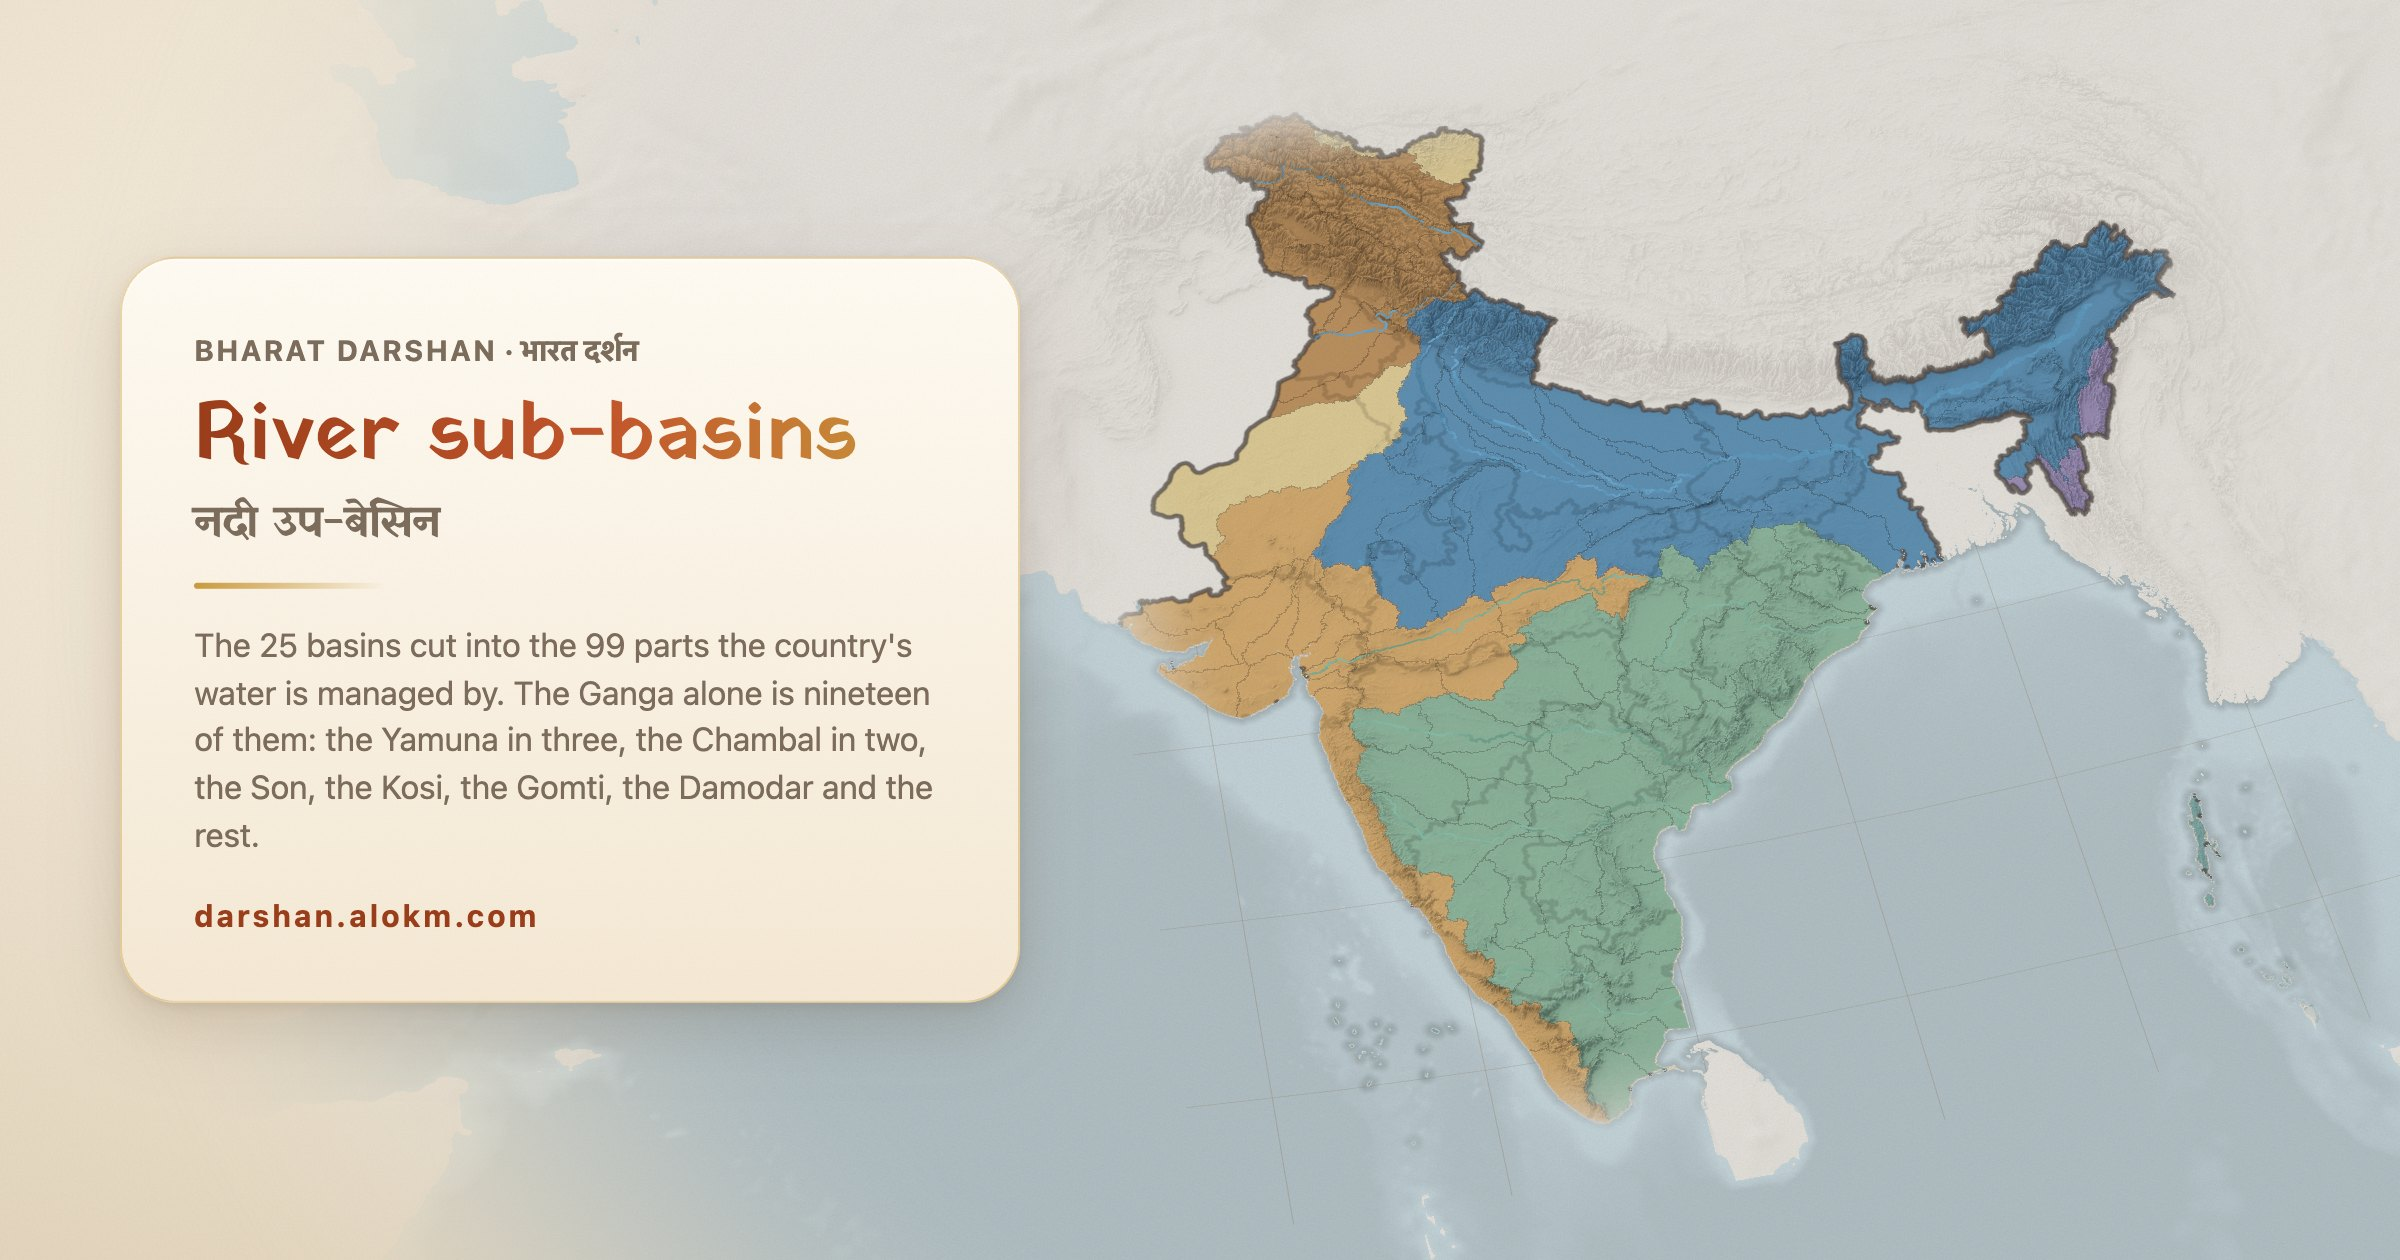
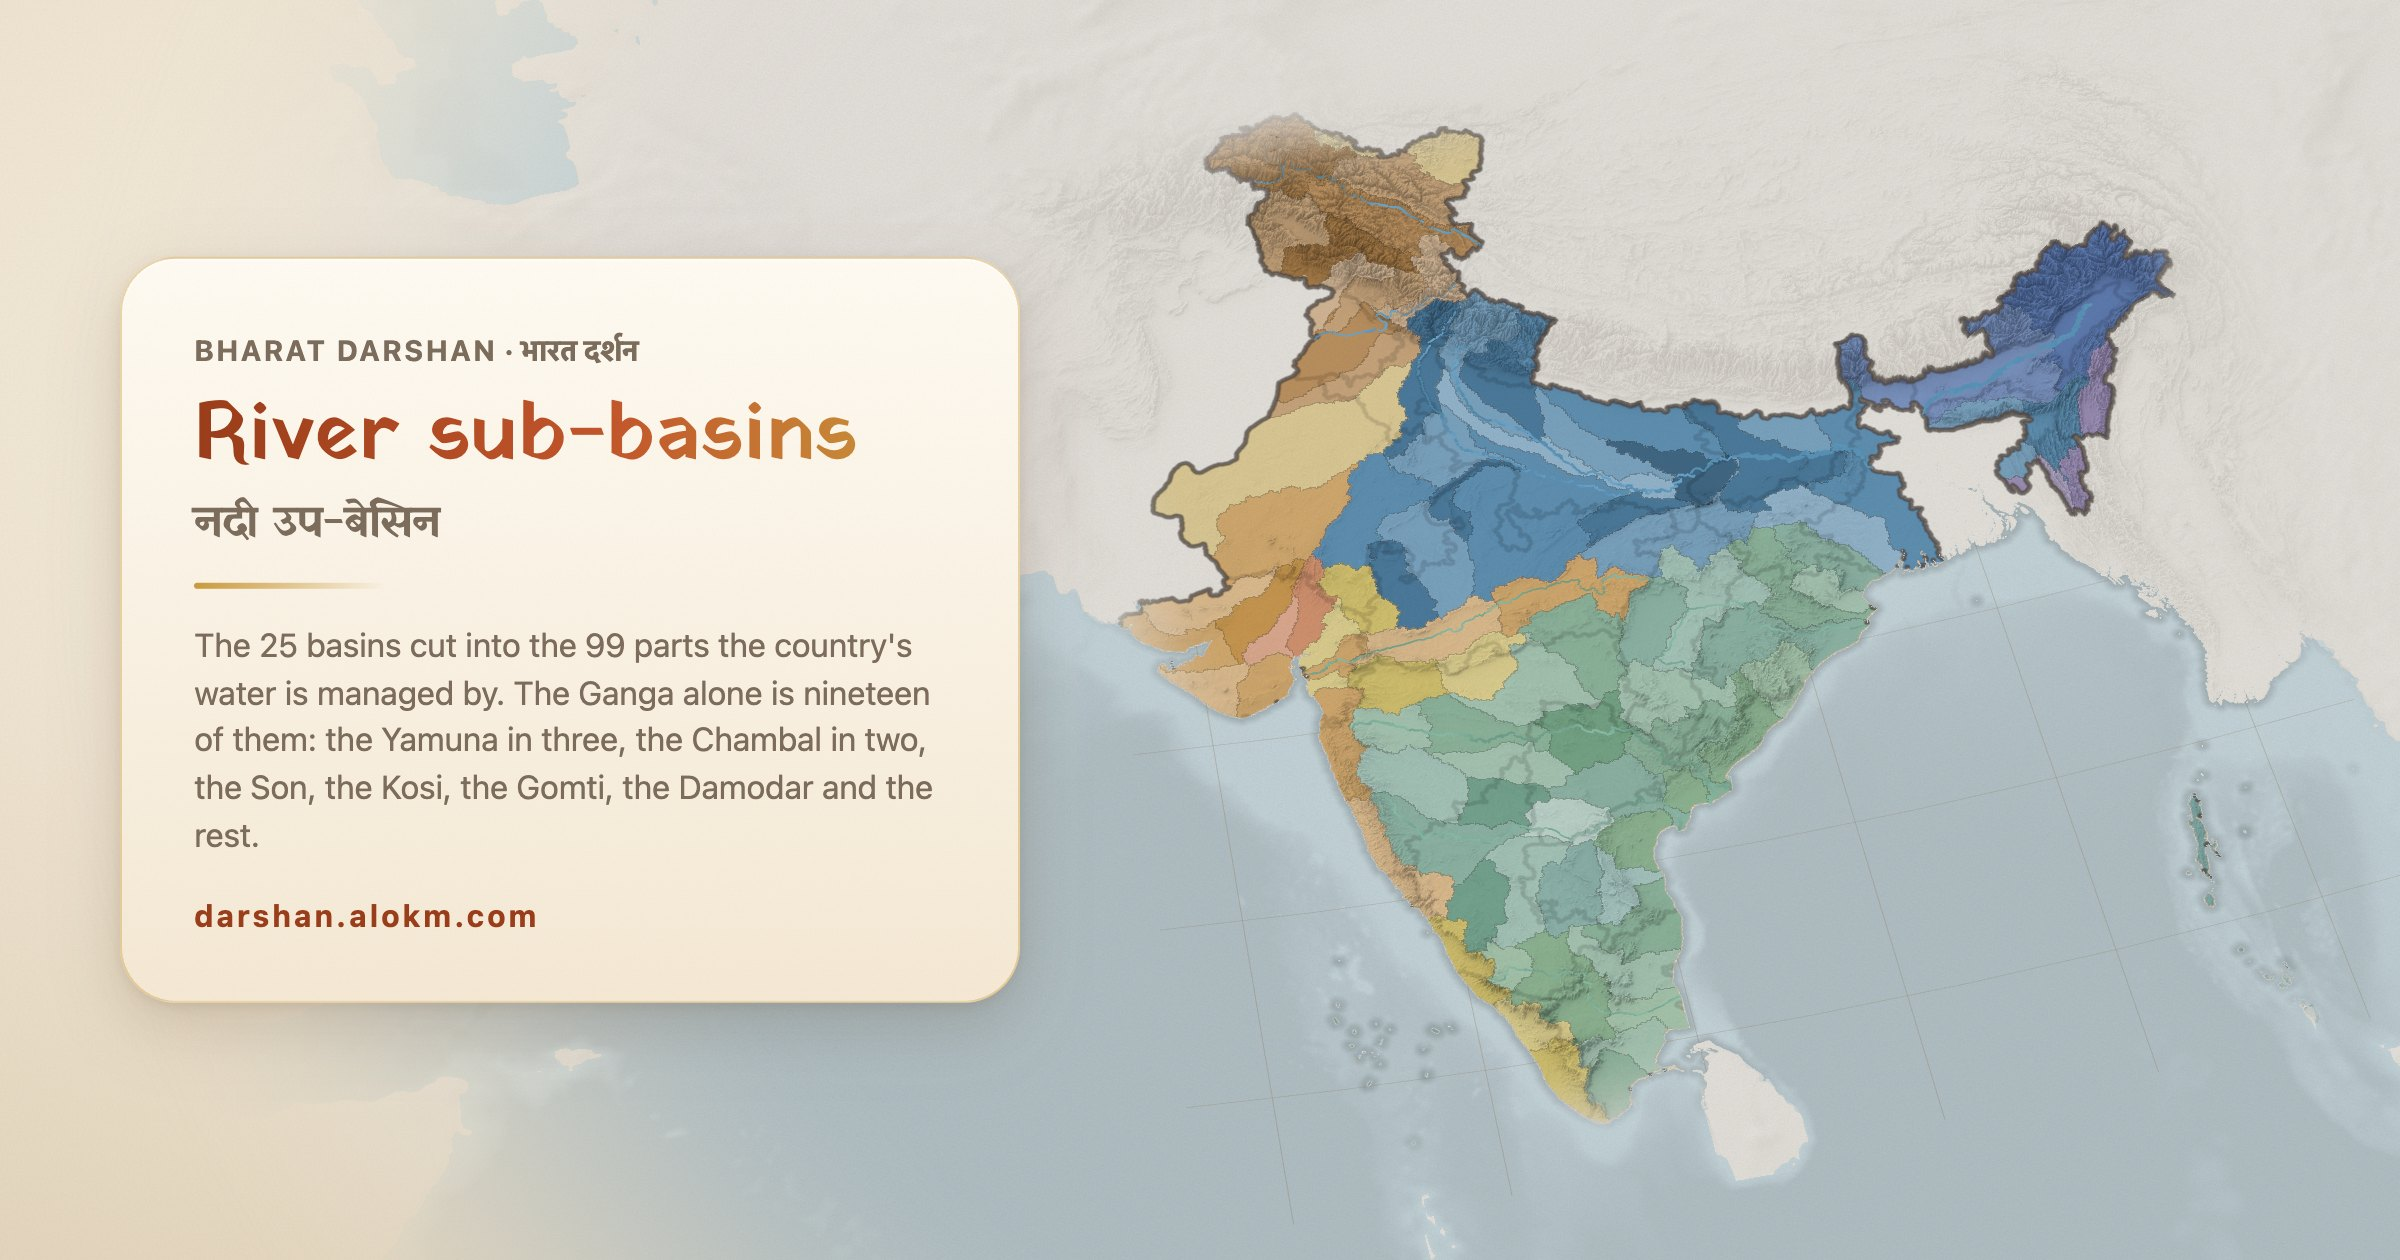
Re-render the sub-basins card, and record the round

diff --git a/docs/PLAN.md b/docs/PLAN.md
@@ -7,7 +7,7 @@ tilt, enter a state of, and tap for the facts. It grows by adding data: many sou
 many maps, a small fixed set of ways to draw them. Most users will be on phones; bigger
 screens should use their full width.
 
-Last updated: 2026-09-23 (forty-first round). Status and next steps are at the bottom of this file;
+Last updated: 2026-09-23 (forty-second round). Status and next steps are at the bottom of this file;
 update them at the end of every working session so any machine can pick up the work.
 
 ---
@@ -2429,6 +2429,16 @@ docs/DEPLOY.md).
     since the lines between sub-basins are a pixel wide and the colours are shared. It
     comes into its own from about 1,500 km of view height in; whether it wants to open
     closer than the home view is a look question for the owner.
+
+- 2026-09-23, forty-second round: the sub-basins shaded apart within their basin.
+  - An `areas` layer may say `"shades": {"by": <field>}`. The build keeps each area's
+    category colour, turns a family (here, a basin) a few degrees round the wheel from
+    any family of its category it touches, and gives each member a lightness step that
+    no neighbour in the family has, largest first so the biggest keeps the plain colour.
+    Items then carry `color`, and the engine draws per-area colours from an RGBA lookup
+    (sRGB in the texture, decoded in the shader). The legend still shows the categories.
+  - The basins page could take the same family turn (`"by"` its own id) if Godavari and
+    Krishna should differ there too; left as it is for now.
 
 - 2026-09-23, forty-first round: six more district census maps, nine in all.
   - Scheduled Castes, the urban share ("Town and country"), women at work, work on the
